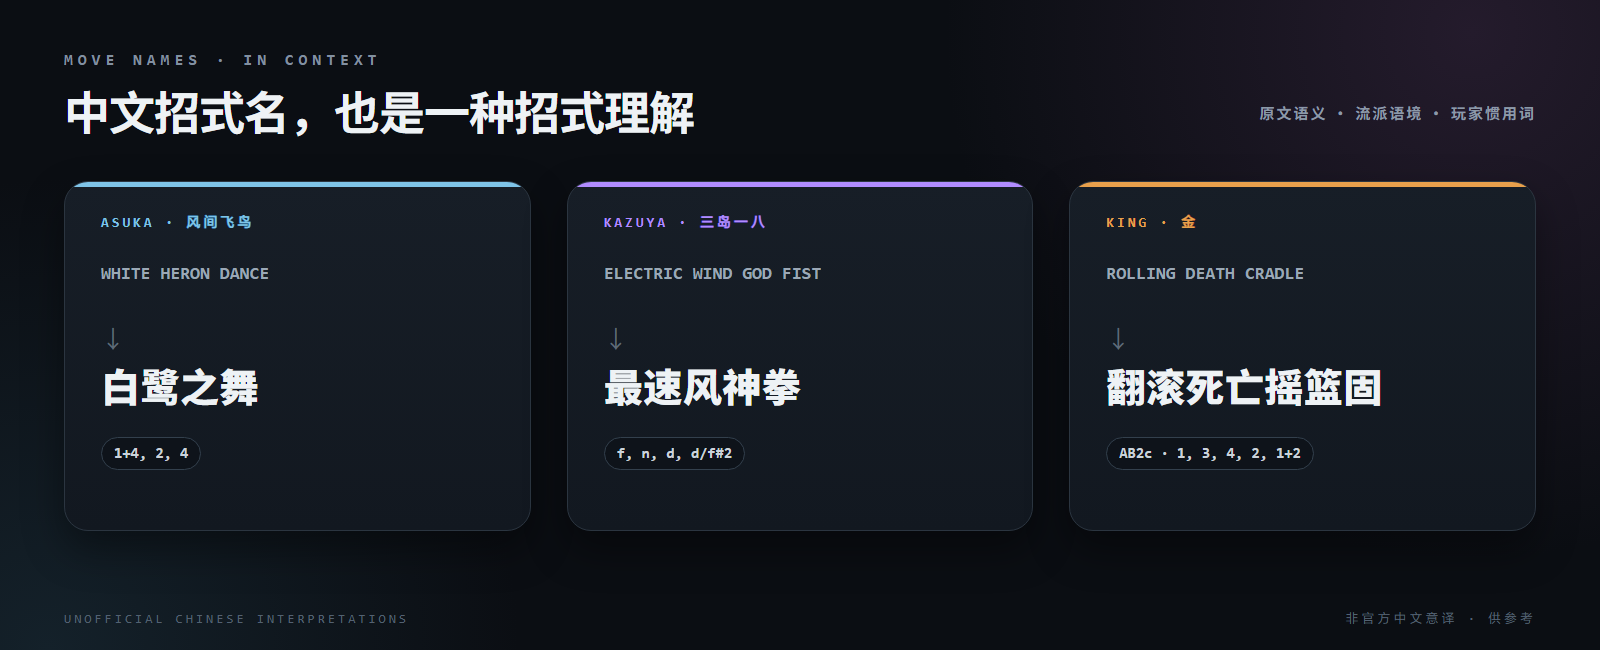
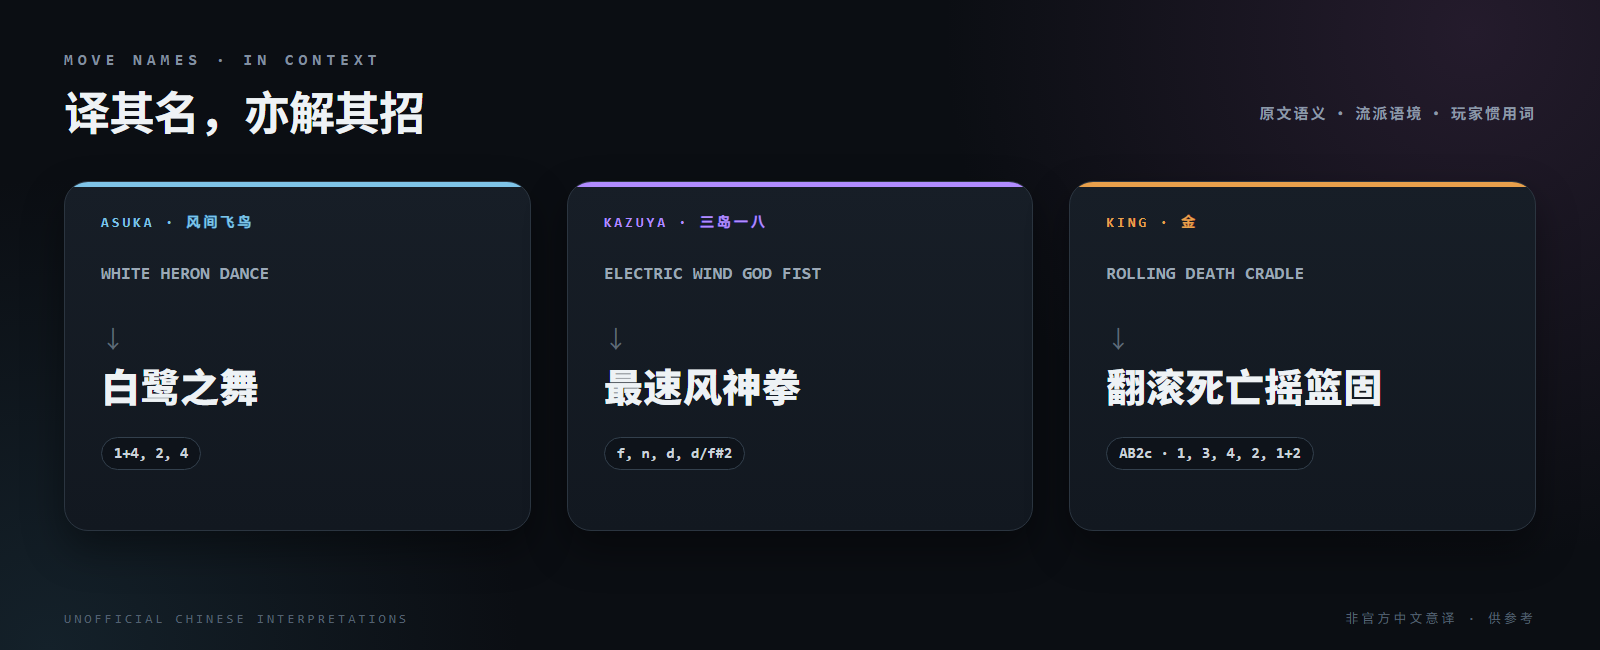
Polish README visual hierarchy

Changed region(s): [[0.0312, 0.1231, 0.4375, 0.2154]]

diff --git a/README.md b/README.md
@@ -14,25 +14,19 @@
 
 ![TEKKEN 8 全角色中文出招表首页](docs/assets/homepage-preview.png)
 
-## 飞白为像，招式成谱
-
 ![凌晓雨飞白轮廓角色像与完整角色出招表](docs/assets/character-page-preview.png)
 
 以飞白轮廓识别角色；进入后，完整招式、按键、发生帧、判定与伤害在一页展开。
-
-## 同一招式，三种视图
 
 ![同一招式的带数字按键图、无数字按键图与标准文字视图](docs/assets/notation-modes-preview.png)
 
 带数字认键位，无数字看位置，`d/f+2, 3` 对照训练模式与社区资料。三种视图一键切换，偏好自动保留。
 
-## 中文招式名，也是一种招式理解
-
-![白鹭之舞、最速风神拳与翻滚死亡摇篮固中文招式名示例](docs/assets/chinese-move-names-preview.png)
+![译其名，亦解其招——白鹭之舞、最速风神拳与翻滚死亡摇篮固示例](docs/assets/chinese-move-names-preview.png)
 
 招式名结合原文语义、武术语境与作品既有译名逐招整理，并明确标注为非官方中文意译。
 
-## 完整到能直接练
+## 一页看全，直接开练
 
 **完整招式** · **发生帧** · **判定与伤害** · **架势** · **投技** · **Heat 招式** · **示例连招**
 